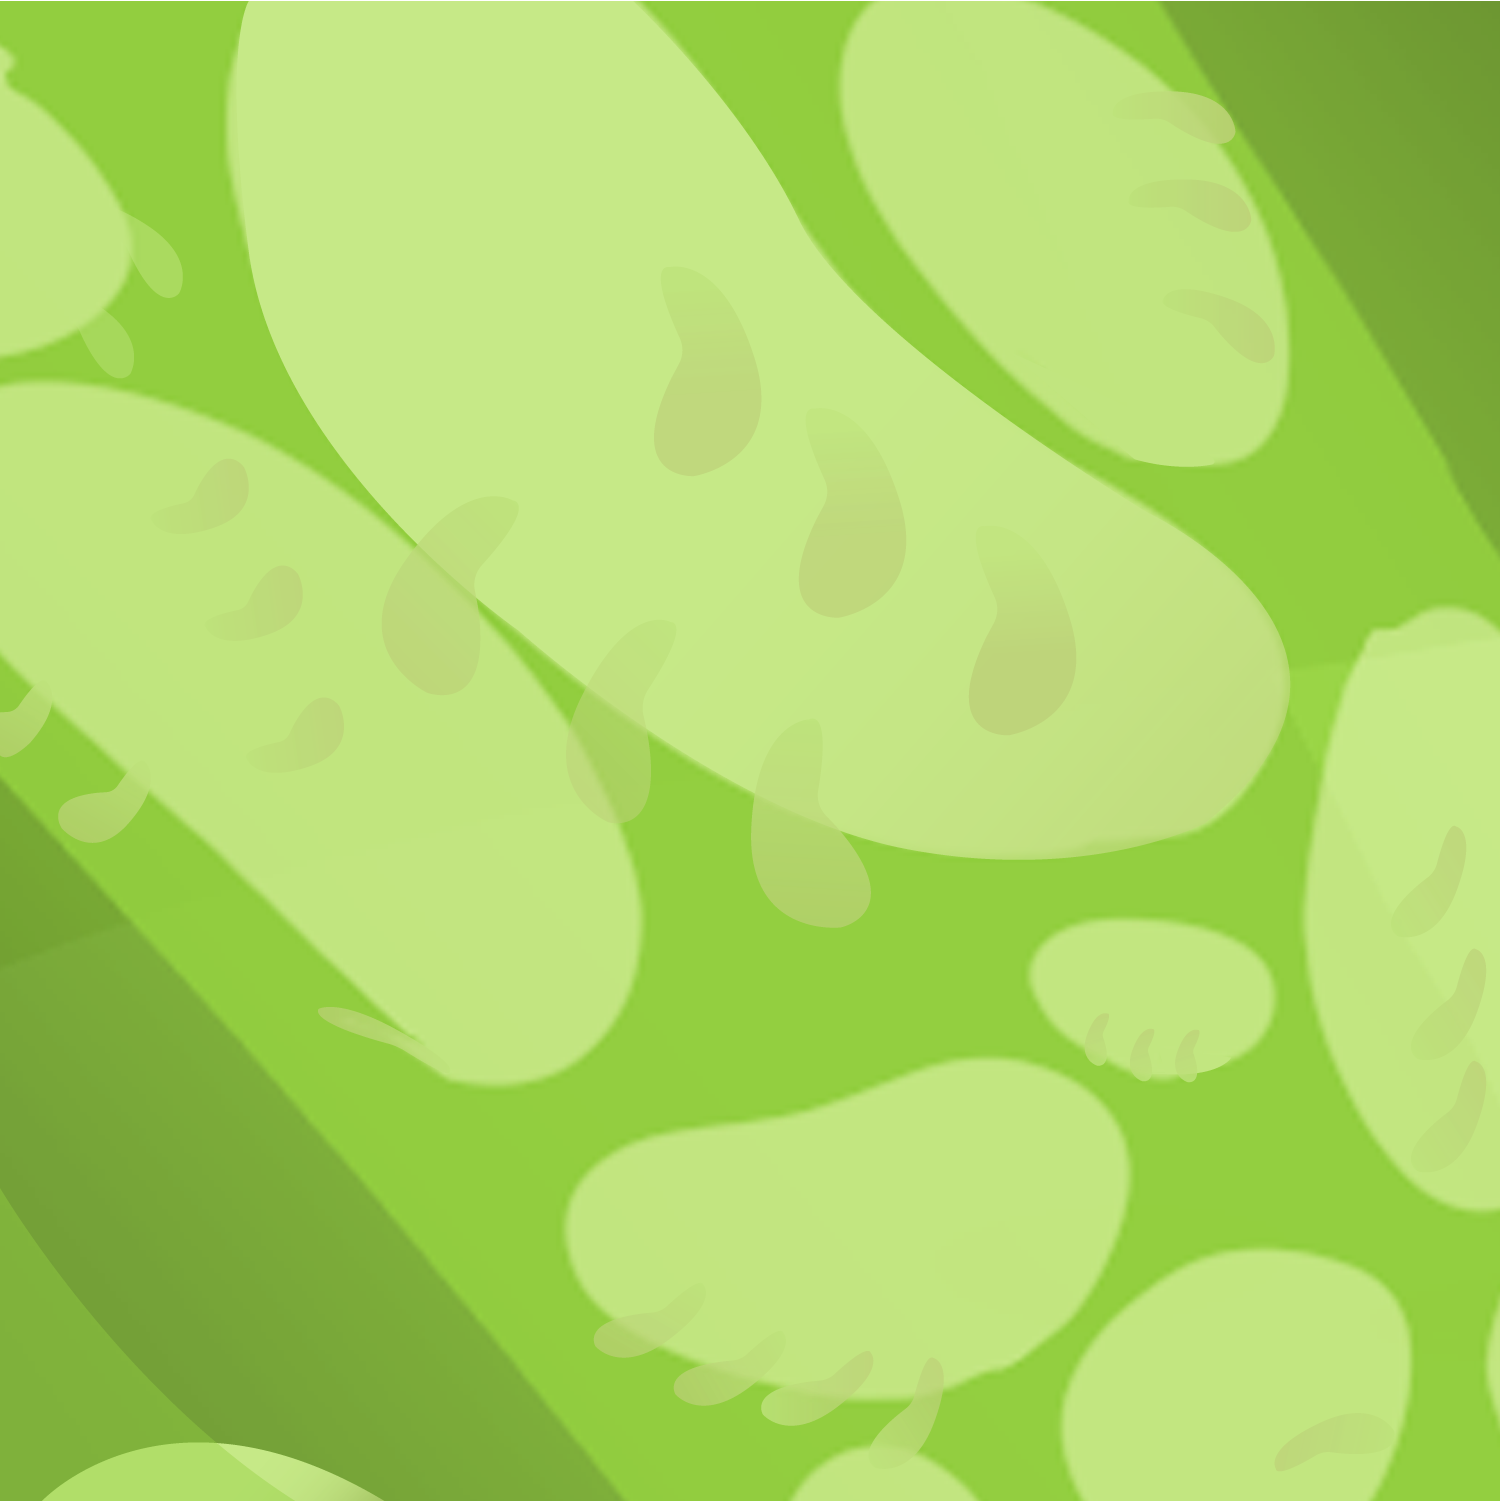
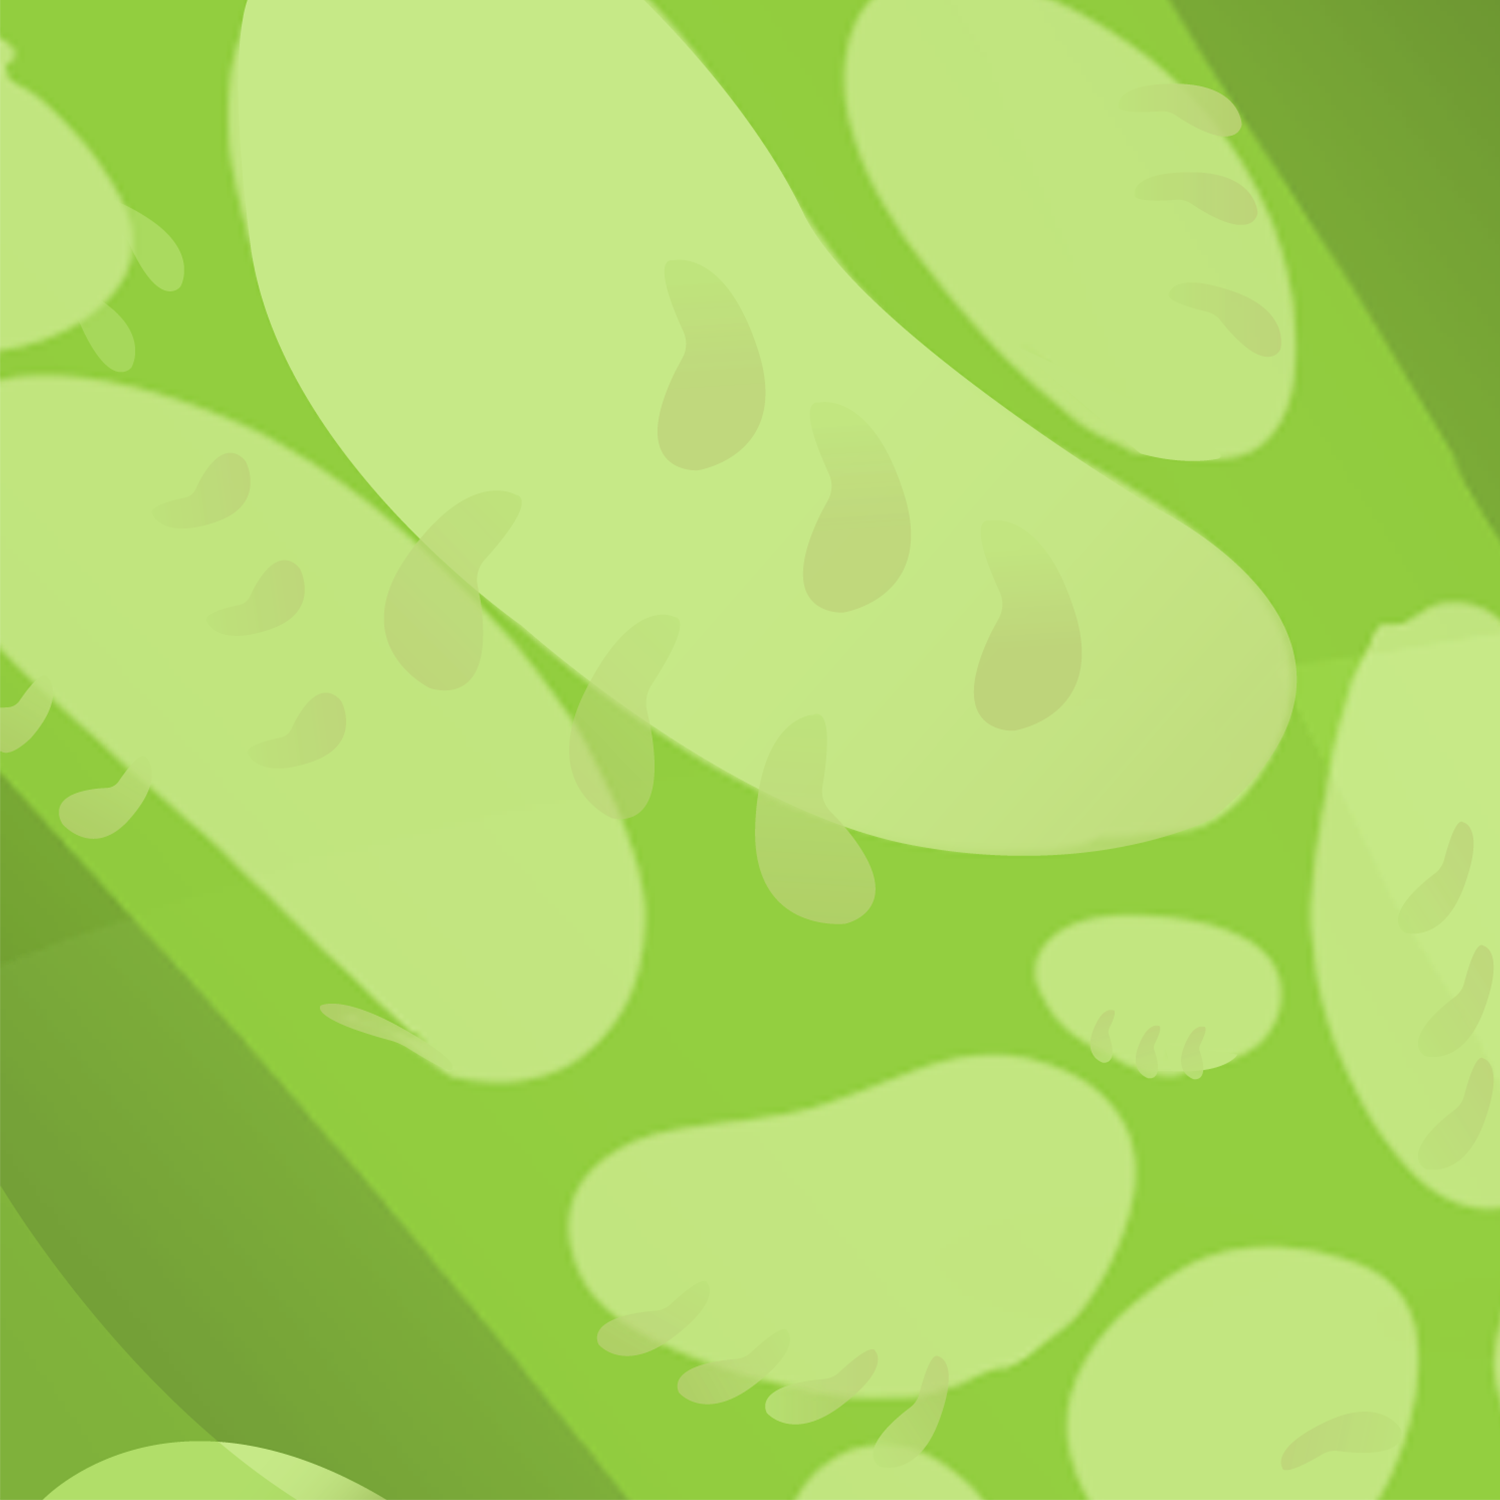
Goo component Reworked Pic resized. No more weird move in notebook pendingToGoDown

diff --git a/The Outer Frame/Assets/_Scripts/SpecificsElements/Dossier/ActionPlan/Functional/ActionRowController.cs b/The Outer Frame/Assets/_Scripts/SpecificsElements/Dossier/ActionPlan/Functional/ActionRowController.cs
@@ -73,7 +73,6 @@ public class ActionRowController : MonoBehaviour
 
         if (isPendigToErase)
         {
-            Debug.Log($"PendingTooo {ActionText.text}");
             if (ActionText.text == "Inspect") WordPendingToReplaceErased = WordSelectedInNotebook.Notebook.GetSelectedWord();
             else Word = WordSelectedInNotebook.Notebook.GetSelectedWord();
             return;
@@ -93,7 +92,6 @@ public class ActionRowController : MonoBehaviour
 
         if (isSpecialAction || !toggle.isOn || !once)
         {
-            Debug.Log($"PendingTooo {ActionText.text}");
             once = true;
         }
         
@@ -188,7 +186,6 @@ public class ActionRowController : MonoBehaviour
         if(PendingToEraseCoroutine != null  && ActionText.text != "Inspect" )
         {
             StopCoroutine(PendingToEraseCoroutine);
-            Debug.Log("Stop coroutine");
             PendingToEraseCoroutine = null;
             toggle.isOn = false;
             isPendigToErase = false;
@@ -223,7 +220,6 @@ public class ActionRowController : MonoBehaviour
 
     IEnumerator AnimEraseWriting(TMP_Text first, bool isTransparent1, TMP_Text second, bool isTransparent2, string txt = "")
     {
-        Debug.Log("AnimEraseWriting");
         FadeWordsEffect effect = first.gameObject.GetComponent<FadeWordsEffect>();
         if (!isTransparent1) effect.OnEraseProgress += eraseParticles;
         effect.StartEffect(isTransparent1);
@@ -425,12 +421,10 @@ public class ActionRowController : MonoBehaviour
         WordData _word = (WordData) obj;
         if (!Word) return;
 
-        Debug.Log($"Erase word {_word} from AP");
         btn.enabled = false;
 
         if(_word == Word)
         {
-            Debug.Log("OnInactiveReplaceWord");
             if (toggle.isOn) isPendigToErase = true;
 
         }
@@ -472,7 +466,6 @@ public class ActionRowController : MonoBehaviour
         }
         else
         {
-            Debug.Log("Pressing word");
             ResetRow();
             WordData newWord = WordsManager.WM.FindActualWordRetroactive(Word);
             WordSelectedInNotebook.Notebook.ForceSelectedWord(newWord);

diff --git a/The Outer Frame/Assets/_Scripts/SpecificsElements/Notebook/Operative/NotebookMoveController.cs b/The Outer Frame/Assets/_Scripts/SpecificsElements/Notebook/Operative/NotebookMoveController.cs
@@ -71,7 +71,9 @@ public class NotebookMoveController : MonoBehaviour
 
         if (isMoving)
         {
+            Debug.Log("starting delay");
             await Task.Delay(200);
+            Debug.Log("finishing delay");
         }
 
         if (pendingToGoDown)
@@ -80,11 +82,11 @@ public class NotebookMoveController : MonoBehaviour
             int target = pendingPosIndex;
             bool targetUp = pendingIsUp;
 
-            CutShakeSequence();
+           // CutShakeSequence();
             ForcePosition(target, false);
             pendingToGoDown = false;
             SetPos(target, targetUp);
-
+            Debug.Log("Notebook Go Down aaaa");
 
         }
 

diff --git a/The Outer Frame/Assets/_Scripts/SpecificsElements/Dossier/ActionPlan/Functional/ActionPlan.cs b/The Outer Frame/Assets/_Scripts/SpecificsElements/Dossier/ActionPlan/Functional/ActionPlan.cs
@@ -368,7 +368,6 @@ public class ActionPlan : MonoBehaviour
     {
         foreach (ActionRowController actions in Actions)
         {
-            Debug.Log("EnableButtons");
             actions.GetButton().enabled = x;
         }
     }
